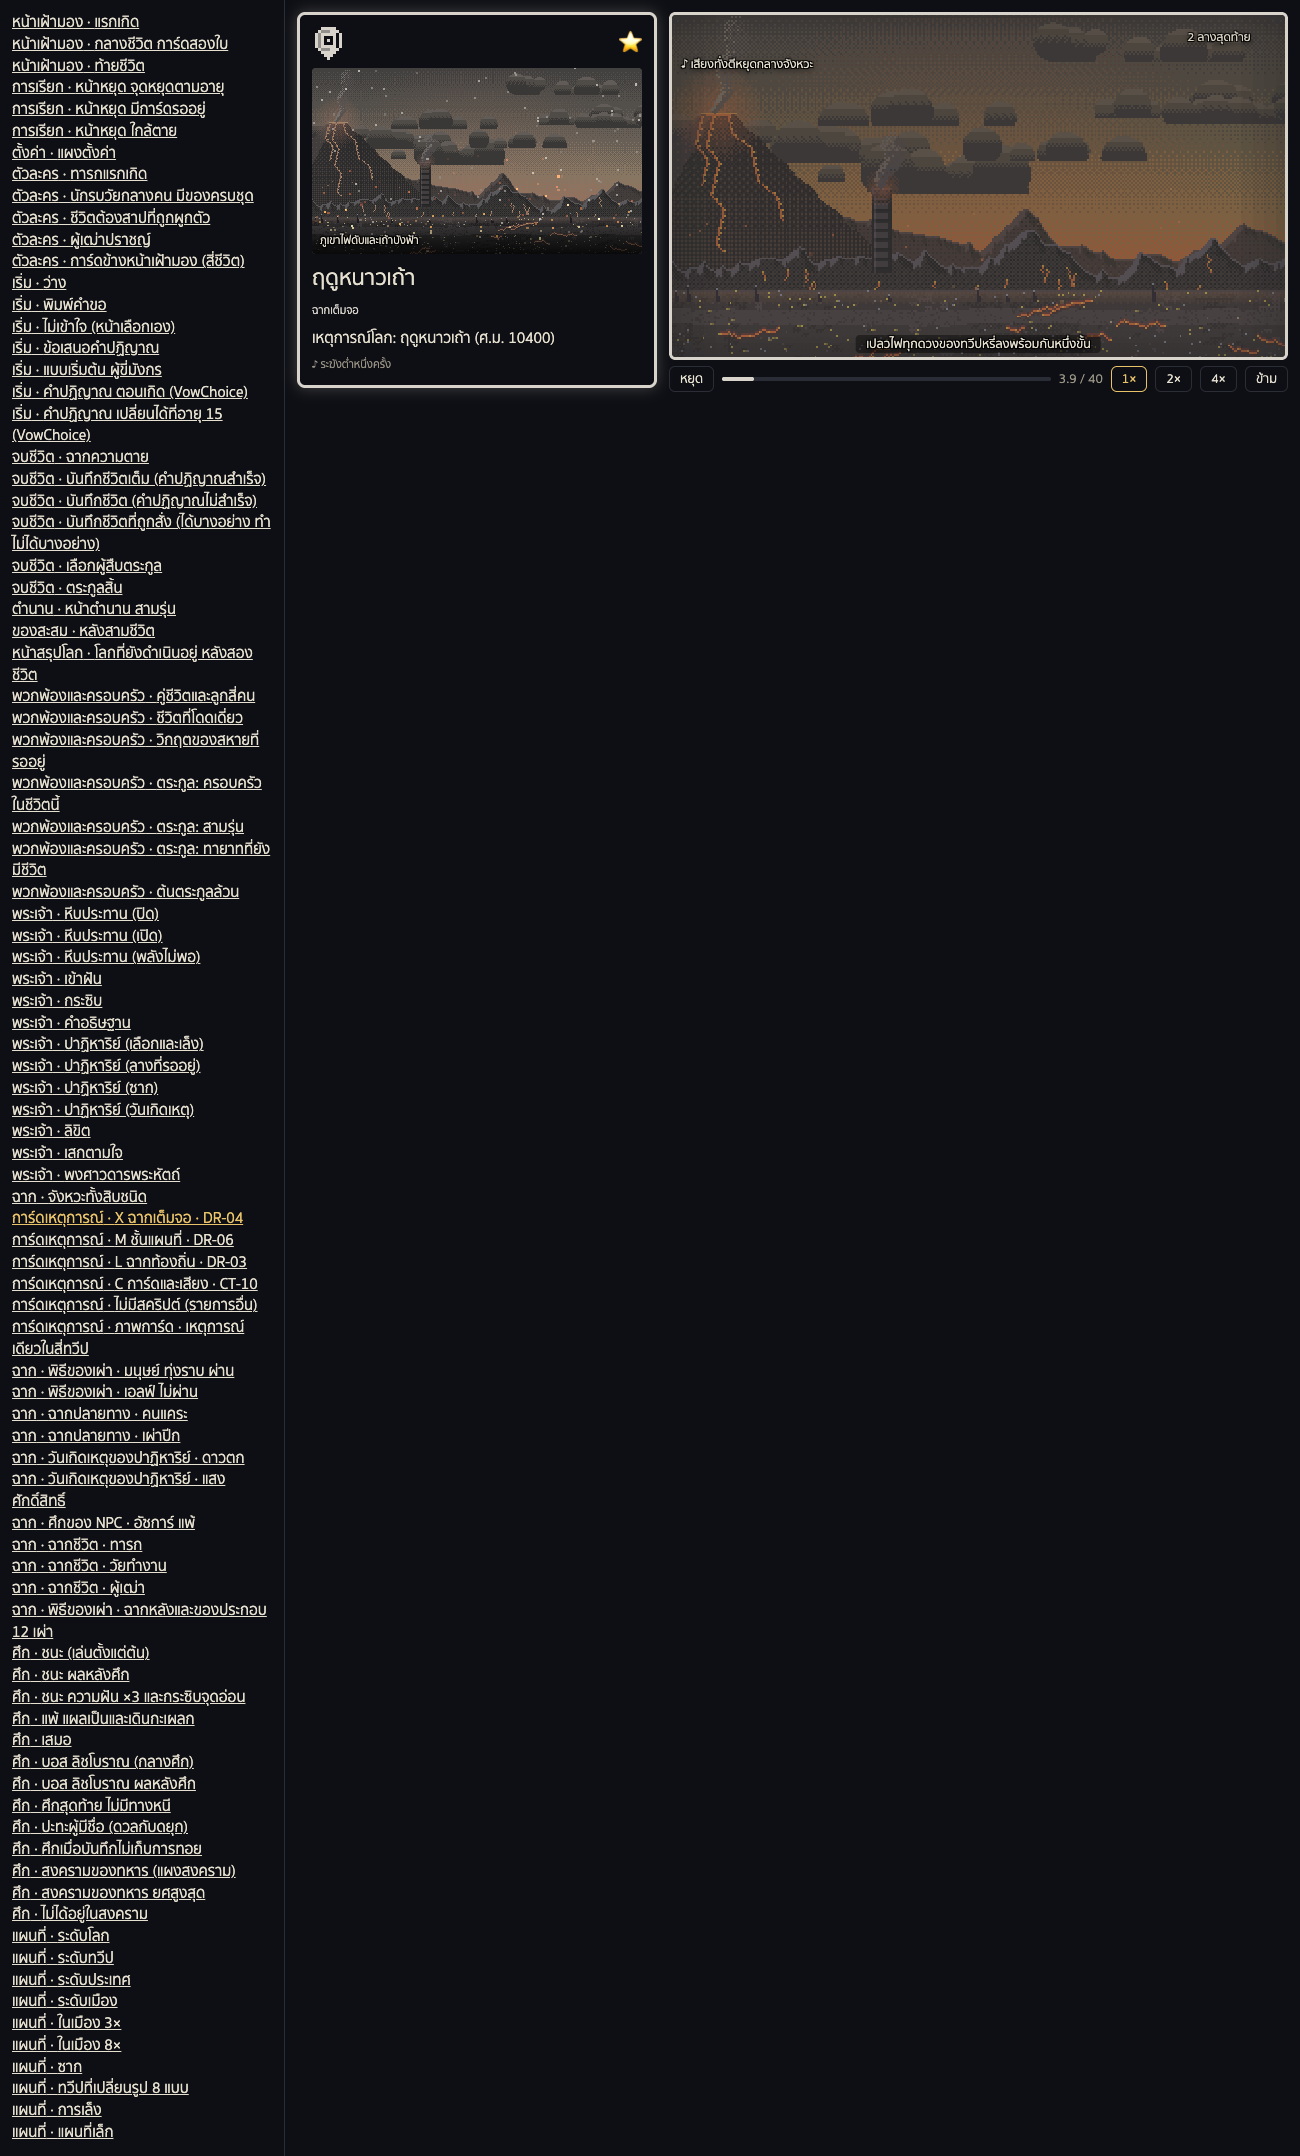
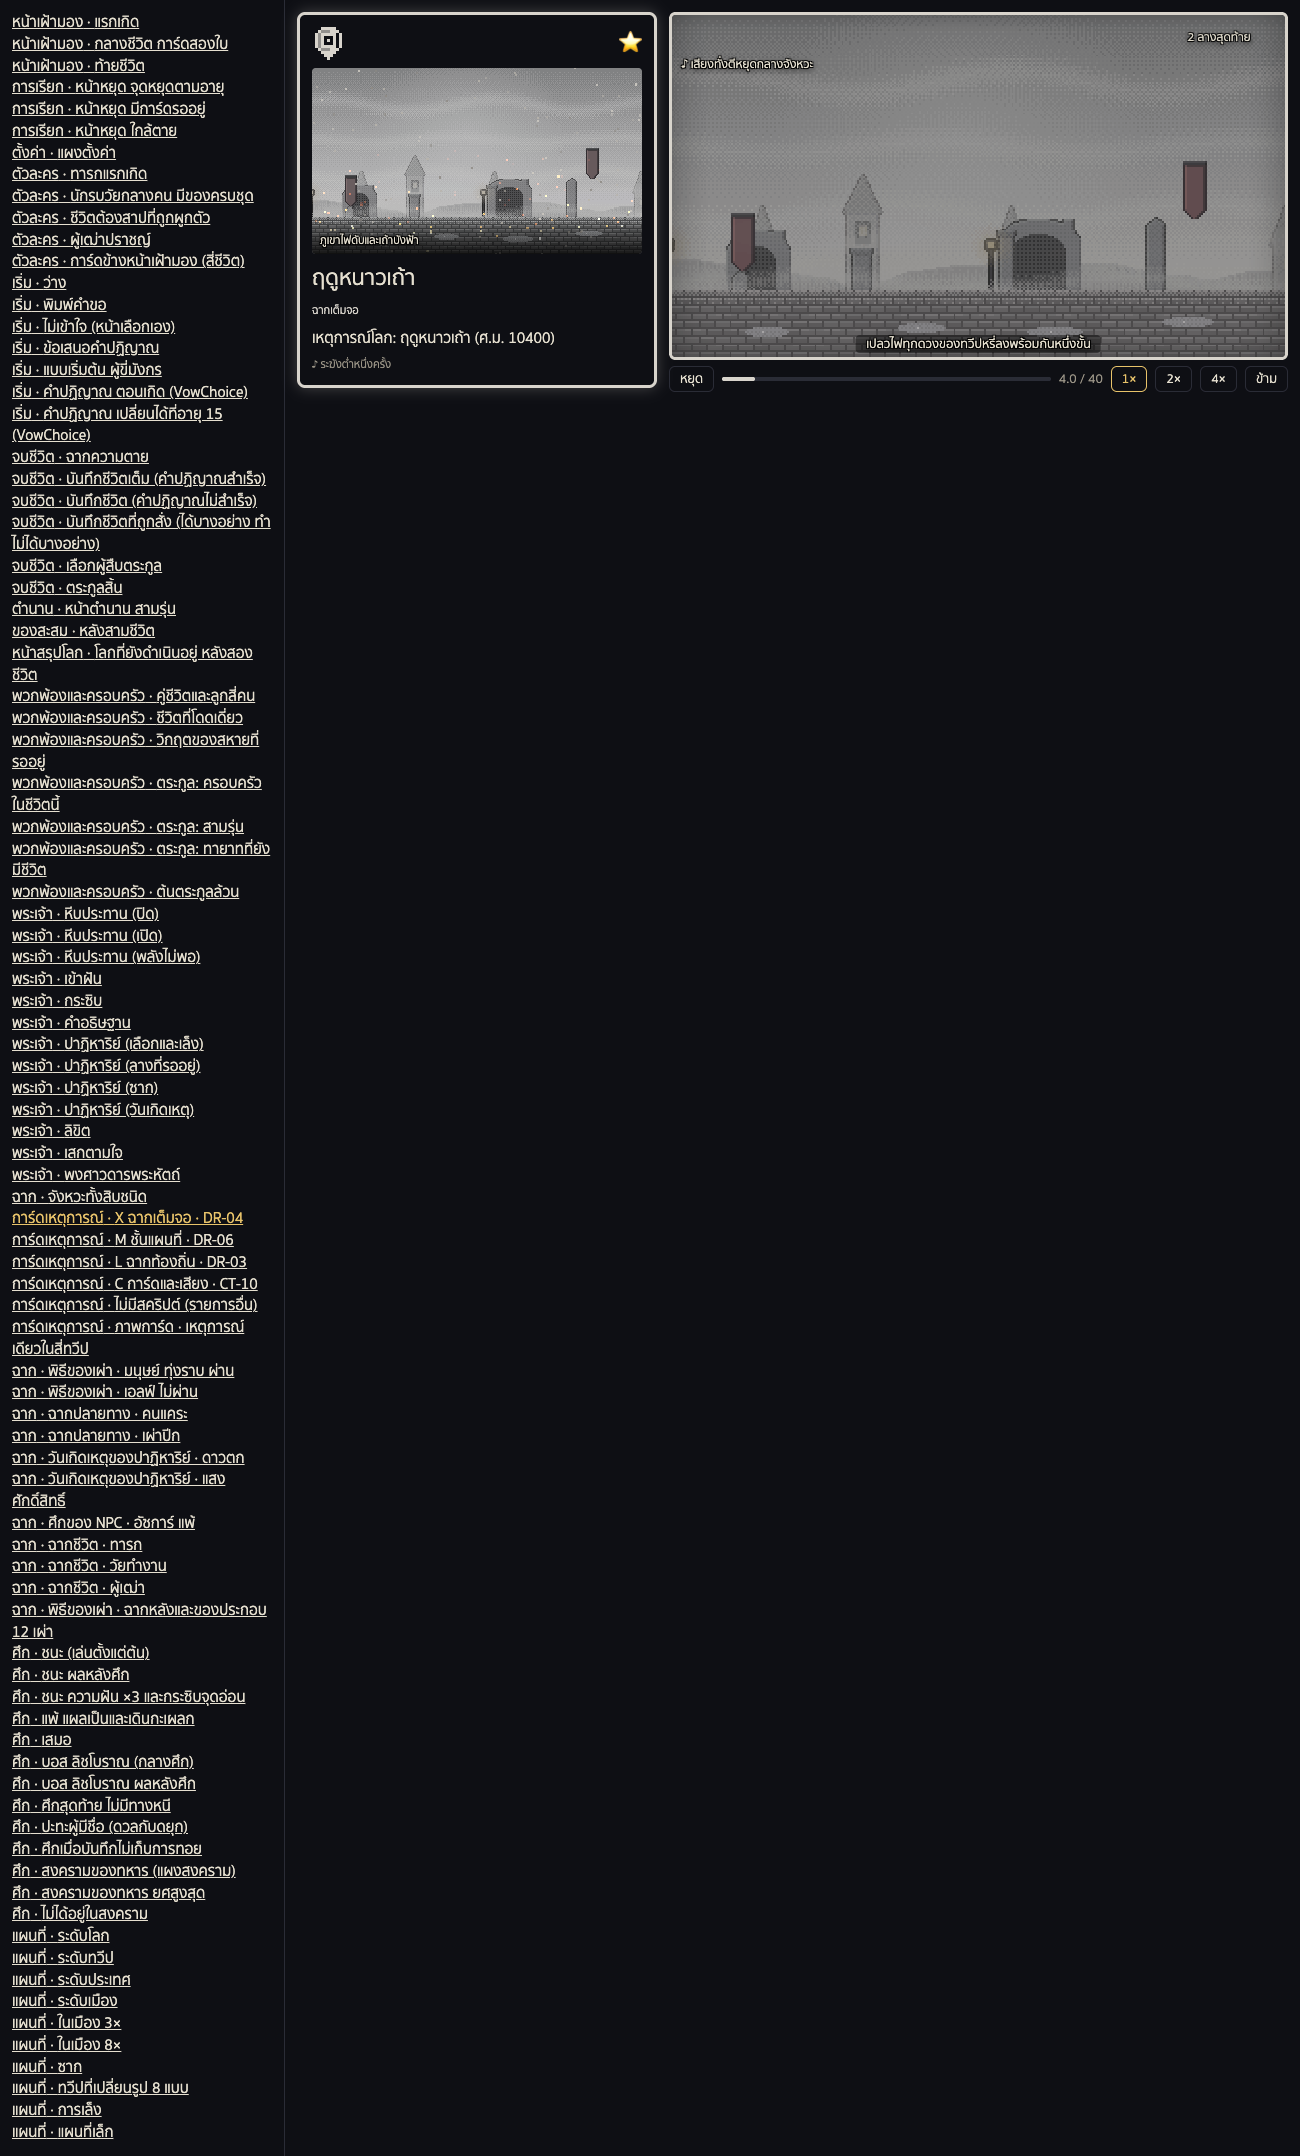
Show the DR-04 card in the life's place, as its stage is (the story left the state out)

Changed region(s): [[0.2154, 0.0, 1.0, 0.1865]]

diff --git a/src/app/views/scene.ts b/src/app/views/scene.ts
@@ -484,7 +484,7 @@ function namedPlace(data: GameData, d: LogEntry['data']): Place | undefined {
 }
 
 /** World events that happen in one named country. */
-const FIXED_PLACE: Record<string, string> = { 'DR-03': 'AZ-01', 'DR-04': 'KD-01' };
+const FIXED_PLACE: Record<string, string> = { 'DR-03': 'AZ-01' };
 
 /** The continent and country of the life now (the place of the calm picture, and of whatever an entry does not place), nothing without a life. */
 export function lifePlace(data: GameData, state: GameState | null | undefined): Place | undefined {
@@ -521,9 +521,7 @@ export function sceneryOf(data: GameData, state: GameState | null | undefined, v
   return (place) => {
     // the props and the kind of place the script asks for (src/scene/props.ts): the craft table, the anvil, the eternal flame ...
     const staged = v.kind === 'script' ? stagingOf(v.script, place) : undefined;
-    // a world event of one named place is painted the same on its stage and on its card: the open land, whatever the places of its beats call (the ash winter is not the town of a life)
-    const fixed = v.kind === 'script' && FIXED_PLACE[v.entry.id ?? ''] ? 'outdoor' : undefined;
-    const spec: ScenerySpec = { continent: at?.continent ?? 'AZ', setting: staged?.setting ?? fixed ?? settingOf(place), seed };
+    const spec: ScenerySpec = { continent: at?.continent ?? 'AZ', setting: staged?.setting ?? settingOf(place), seed };
     if (staged?.props.length) spec.props = staged.props;
     if (staged?.mood) spec.mood = staged.mood;
     if (at?.country) spec.country = at.country;

diff --git a/src/ui/scenes.tsx b/src/ui/scenes.tsx
@@ -78,7 +78,7 @@ for (const [form, id, name] of FORMS) {
       const v = sceneFor(data, e, state);
       return (
         <div style={{ padding: size.pad, display: 'flex', gap: size.pad, flexWrap: 'wrap', alignItems: 'flex-start' }}>
-          <EventCard card={cardOfEntry(data, e)} width={360} />
+          <EventCard card={cardOfEntry(data, e, state)} width={360} />
           {v.kind === 'script' && (
             <div style={{ flex: '1 1 560px', maxWidth: 800 }}>
               <ScenePlayer script={v.script} figureOf={figuresOf(data, state, v)} scenery={sceneryOf(data, state, v)} labelOf={labelsOf(data, state, v)} />
